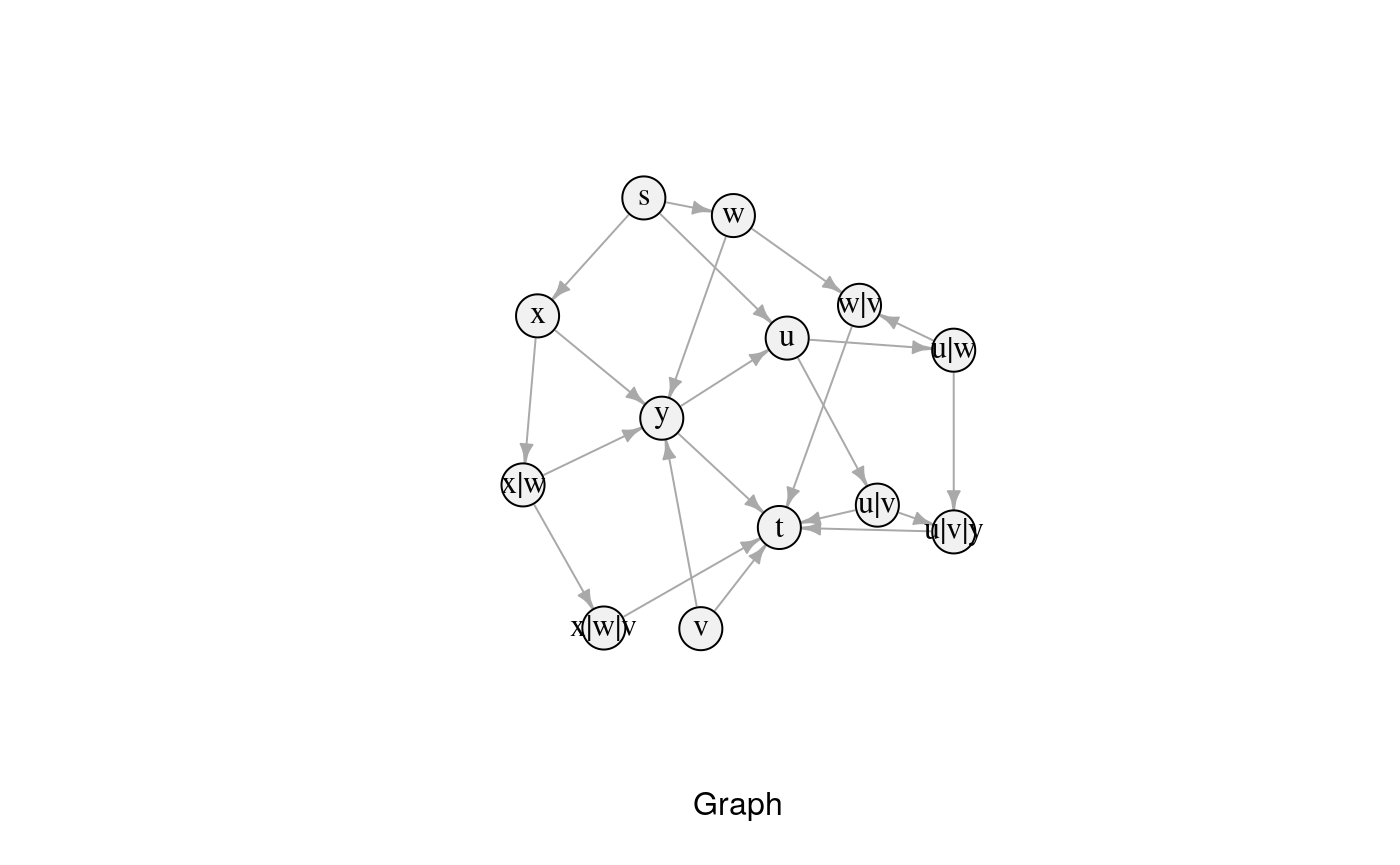
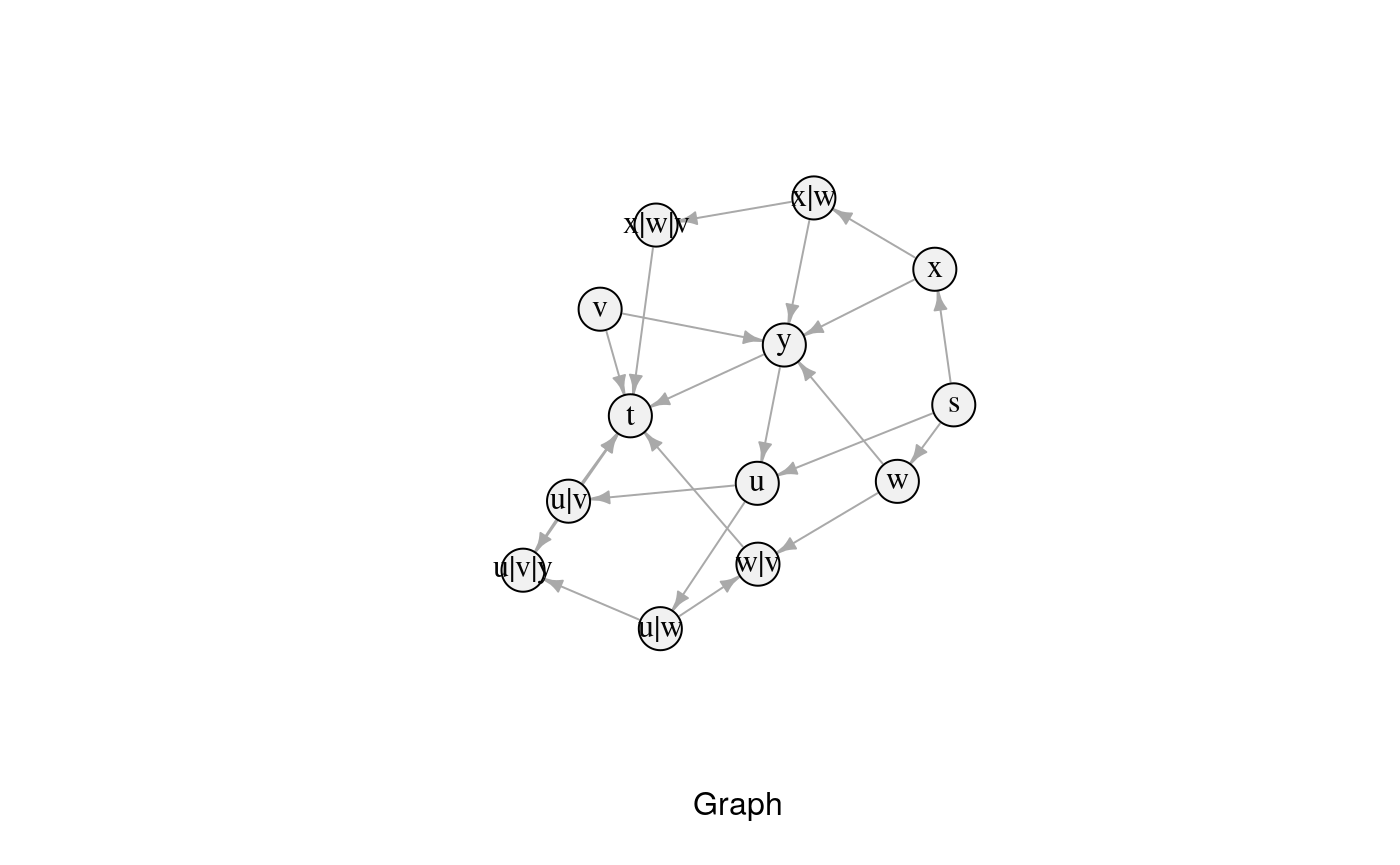
Release 1.0.2, fixing and improving Hsu's transformation.

Changed region(s): [[0.3379, 0.2809, 0.7064, 0.7491], [0.43, 0.2185, 0.6143, 0.3121], [0.5529, 0.2809, 0.5836, 0.3121]]

diff --git a/docs/news/index.html b/docs/news/index.html
@@ -61,7 +61,7 @@
       </button>
       <span class="navbar-brand">
         <a class="navbar-link" href="../index.html">R-SPPFP</a>
-        <span class="label label-default" data-toggle="tooltip" data-placement="bottom" title="Released package">1.0.0.0</span>
+        <span class="label label-default" data-toggle="tooltip" data-placement="bottom" title="Released package">1.0.2</span>
       </span>
     </div>
 
@@ -132,9 +132,22 @@
       <small>Source: <a href='https://github.com/melvidoni/rsppfp/blob/master/NEWS.md'><code>NEWS.md</code></a></small>
     </div>
 
-    <div id="rsppfp-1-0-0-0" class="section level2">
+    <div id="rsppfp-1-0-2" class="section level2">
 <h2 class="hasAnchor">
-<a href="#rsppfp-1-0-0-0" class="anchor"></a>RSPPFP 1.0.0.0</h2>
+<a href="#rsppfp-1-0-2" class="anchor"></a>RSPPFP 1.0.2</h2>
+<p>Stable release of advanced implementation of R-SPPFP, with minor bug fixes. Released October 2018.</p>
+<div id="minor-bug-fixes-and-improvements" class="section level3">
+<h3 class="hasAnchor">
+<a href="#minor-bug-fixes-and-improvements" class="anchor"></a>Minor Bug Fixes and Improvements</h3>
+<ul>
+<li>Fixed Hsu’s transformation: when having more than three columns (<code>from</code> and <code>to</code>, and an undefined number of attributes) the resulting <code>gStar</code> has the attributes in the correct order.</li>
+<li>Improved Hsu’s transformation: previous to working, it deletes empty rows from the set of forbidden paths. Empty rows are those in which all of the cells contain either only blank spaces or <code>NA</code> values.</li>
+</ul>
+</div>
+</div>
+    <div id="rsppfp-1-0-0" class="section level2">
+<h2 class="hasAnchor">
+<a href="#rsppfp-1-0-0" class="anchor"></a>RSPPFP 1.0.0</h2>
 <p>First stable release of advanced implementation of R-SPPFP, released on June 2018.</p>
 <div id="major-changes" class="section level3">
 <h3 class="hasAnchor">
@@ -153,7 +166,8 @@
     <div id="tocnav">
       <h2>Contents</h2>
       <ul class="nav nav-pills nav-stacked">
-        <li><a href="#rsppfp-1-0-0-0">1.0.0.0</a></li>
+        <li><a href="#rsppfp-1-0-2">1.0.2</a></li>
+        <li><a href="#rsppfp-1-0-0">1.0.0</a></li>
       </ul>
     </div>
   </div>

diff --git a/docs/reference/modify_graph_hsu.html b/docs/reference/modify_graph_hsu.html
@@ -64,7 +64,7 @@
       </button>
       <span class="navbar-brand">
         <a class="navbar-link" href="../index.html">R-SPPFP</a>
-        <span class="label label-default" data-toggle="tooltip" data-placement="bottom" title="Released package">1.0.0.0</span>
+        <span class="label label-default" data-toggle="tooltip" data-placement="bottom" title="Released package">1.0.2</span>
       </span>
     </div>
 
@@ -224,25 +224,26 @@ core. It is suggested to not assign all of your available cores to the function.
 #&gt; 1      c       u
 #&gt; 2      c       p
 #&gt; 3      u       e
+#&gt; 4      u       t
 #&gt; 5      t       a
 #&gt; 6      a       r
+#&gt; 7      a       i
 #&gt; 8      r       u
 #&gt; 9      e       r
 #&gt; 10     e       i
 #&gt; 11     e       p
+#&gt; 12     p       n
 #&gt; 13     i       n
 #&gt; 14     i       o
 #&gt; 15     n       o
 #&gt; 16     o       m
-#&gt; 17     u     u|t
-#&gt; 22   u|t   u|t|a
-#&gt; 32 u|t|a u|t|a|r
-#&gt; 4      p     p|n
-#&gt; 52   p|n   p|n|o
-#&gt; 62     a     a|i
-#&gt; 7    a|i   a|i|n
-#&gt; 18 u|t|a     a|i
-#&gt; 23   a|i       o</div><div class='input'>
+#&gt; 33     3     3|3
+#&gt; 34   3|3   3|3|1
+#&gt; 35 3|3|1 3|3|1|3
+#&gt; 36     2     2|2
+#&gt; 37   2|2   2|2|3
+#&gt; 38     1     1|1
+#&gt; 39   1|1   1|1|2</div><div class='input'>
 </div></pre>
   </div>
   <div class="col-md-3 hidden-xs hidden-sm" id="sidebar">

diff --git a/docs/articles/igraph.html b/docs/articles/igraph.html
@@ -30,7 +30,7 @@
       </button>
       <span class="navbar-brand">
         <a class="navbar-link" href="../index.html">R-SPPFP</a>
-        <span class="label label-default" data-toggle="tooltip" data-placement="bottom" title="Released package">1.0.0.0</span>
+        <span class="label label-default" data-toggle="tooltip" data-placement="bottom" title="Released package">1.0.2</span>
       </span>
     </div>
 
@@ -186,7 +186,7 @@ gStar.igraph &lt;-<span class="st"> </span><span class="kw">graph_from_data_fram
 shortestPath &lt;-<span class="st"> </span><span class="kw"><a href="../reference/get_shortest_path.html">get_shortest_path</a></span>(gStar, <span class="st">"u"</span>, <span class="st">"t"</span>)
 shortestPath
 <span class="co">#&gt; [[1]]</span>
-<span class="co">#&gt; + 3/13 vertices, named, from 3b7f935:</span>
+<span class="co">#&gt; + 3/13 vertices, named, from 8f08b90:</span>
 <span class="co">#&gt; [1] u   u|v t</span></code></pre></div>
 <p>Also, it is worth pointing out that a path can only be translated if it is presented as a list or vector of nodes, written sequentially. In iGraph, this is known as <code>vpaths</code> (vertexes paths).</p>
 <div class="sourceCode"><pre class="sourceCode r"><code class="sourceCode r"><span class="co"># Translate the vpath</span>

diff --git a/docs/reference/get_shortest_path.html b/docs/reference/get_shortest_path.html
@@ -71,7 +71,7 @@ It is important to mention that new nodes are only considered as destination nod
       </button>
       <span class="navbar-brand">
         <a class="navbar-link" href="../index.html">R-SPPFP</a>
-        <span class="label label-default" data-toggle="tooltip" data-placement="bottom" title="Released package">1.0.0.0</span>
+        <span class="label label-default" data-toggle="tooltip" data-placement="bottom" title="Released package">1.0.2</span>
       </span>
     </div>
 
@@ -214,7 +214,7 @@ preferable to use a character format, but this can also be of any simple type. N
 #&gt; 18   u|v u|v|y      3</div><div class='input'>
 <span class='co'># Obtain the shortest path</span>
 <span class='fu'>get_shortest_path</span>(<span class='no'>gStar</span>, <span class='st'>"s"</span>, <span class='st'>"v"</span>)</div><div class='output co'>#&gt; [[1]]
-#&gt; + 3/11 vertices, named, from 9d959ac:
+#&gt; + 3/11 vertices, named, from cebc163:
 #&gt; [1] s     s|u   s|u|v
 #&gt; </div><div class='input'>
 

diff --git a/docs/reference/parse_vpath.html b/docs/reference/parse_vpath.html
@@ -64,7 +64,7 @@ transformations, to a sequence of nodes in terms of the original G." />
       </button>
       <span class="navbar-brand">
         <a class="navbar-link" href="../index.html">R-SPPFP</a>
-        <span class="label label-default" data-toggle="tooltip" data-placement="bottom" title="Released package">1.0.0.0</span>
+        <span class="label label-default" data-toggle="tooltip" data-placement="bottom" title="Released package">1.0.2</span>
       </span>
     </div>
 

diff --git a/docs/articles/benchmark.html b/docs/articles/benchmark.html
@@ -30,7 +30,7 @@
       </button>
       <span class="navbar-brand">
         <a class="navbar-link" href="../index.html">R-SPPFP</a>
-        <span class="label label-default" data-toggle="tooltip" data-placement="bottom" title="Released package">1.0.0.0</span>
+        <span class="label label-default" data-toggle="tooltip" data-placement="bottom" title="Released package">1.0.2</span>
       </span>
     </div>
 

diff --git a/docs/articles/index.html b/docs/articles/index.html
@@ -61,7 +61,7 @@
       </button>
       <span class="navbar-brand">
         <a class="navbar-link" href="../index.html">R-SPPFP</a>
-        <span class="label label-default" data-toggle="tooltip" data-placement="bottom" title="Released package">1.0.0.0</span>
+        <span class="label label-default" data-toggle="tooltip" data-placement="bottom" title="Released package">1.0.2</span>
       </span>
     </div>
 

diff --git a/docs/articles/references.html b/docs/articles/references.html
@@ -30,7 +30,7 @@
       </button>
       <span class="navbar-brand">
         <a class="navbar-link" href="../index.html">R-SPPFP</a>
-        <span class="label label-default" data-toggle="tooltip" data-placement="bottom" title="Released package">1.0.0.0</span>
+        <span class="label label-default" data-toggle="tooltip" data-placement="bottom" title="Released package">1.0.2</span>
       </span>
     </div>
 

diff --git a/docs/articles/rsppfp.html b/docs/articles/rsppfp.html
@@ -30,7 +30,7 @@
       </button>
       <span class="navbar-brand">
         <a class="navbar-link" href="../index.html">R-SPPFP</a>
-        <span class="label label-default" data-toggle="tooltip" data-placement="bottom" title="Released package">1.0.0.0</span>
+        <span class="label label-default" data-toggle="tooltip" data-placement="bottom" title="Released package">1.0.2</span>
       </span>
     </div>
 

diff --git a/docs/reference/direct_graph.html b/docs/reference/direct_graph.html
@@ -66,7 +66,7 @@
       </button>
       <span class="navbar-brand">
         <a class="navbar-link" href="../index.html">R-SPPFP</a>
-        <span class="label label-default" data-toggle="tooltip" data-placement="bottom" title="Released package">1.0.0.0</span>
+        <span class="label label-default" data-toggle="tooltip" data-placement="bottom" title="Released package">1.0.2</span>
       </span>
     </div>
 

diff --git a/docs/reference/dot-comb.html b/docs/reference/dot-comb.html
@@ -64,7 +64,7 @@
       </button>
       <span class="navbar-brand">
         <a class="navbar-link" href="../index.html">R-SPPFP</a>
-        <span class="label label-default" data-toggle="tooltip" data-placement="bottom" title="Released package">1.0.0.0</span>
+        <span class="label label-default" data-toggle="tooltip" data-placement="bottom" title="Released package">1.0.2</span>
       </span>
     </div>
 

diff --git a/docs/reference/dot-get_arc_attributes.html b/docs/reference/dot-get_arc_attributes.html
@@ -64,7 +64,7 @@
       </button>
       <span class="navbar-brand">
         <a class="navbar-link" href="../index.html">R-SPPFP</a>
-        <span class="label label-default" data-toggle="tooltip" data-placement="bottom" title="Released package">1.0.0.0</span>
+        <span class="label label-default" data-toggle="tooltip" data-placement="bottom" title="Released package">1.0.2</span>
       </span>
     </div>
 
